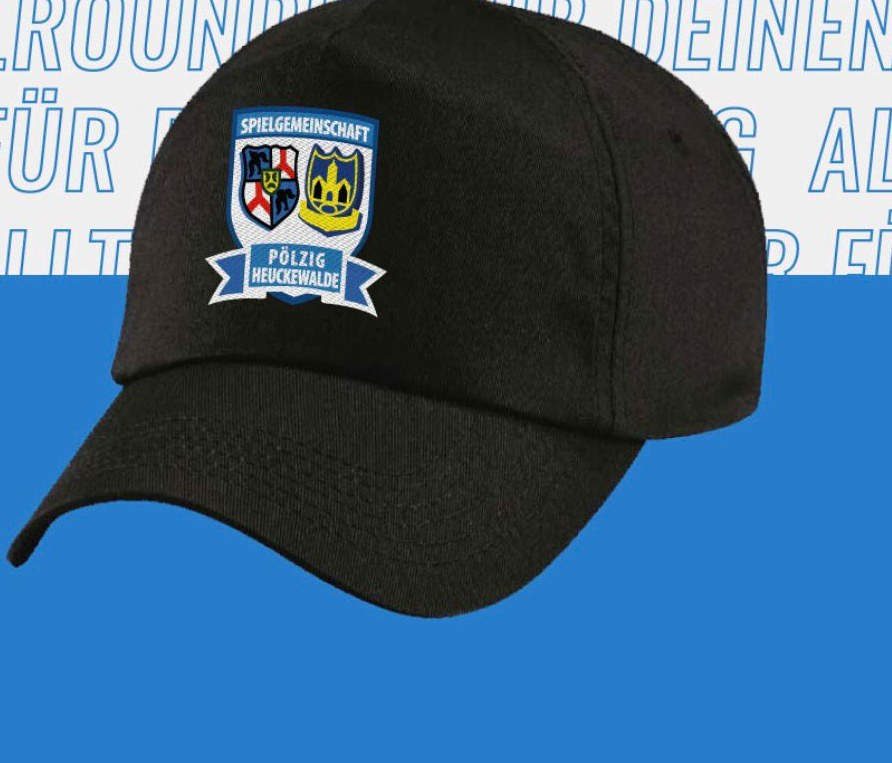
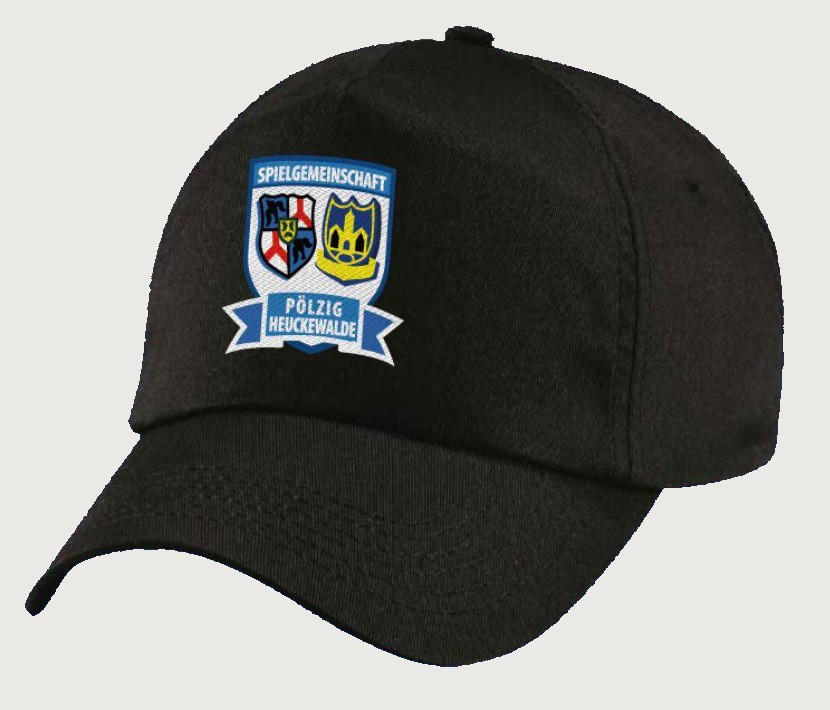
Fanshop-Bilder ohne Textoverlay, Kategorie-Beschriftungen, Abteilungslayout überarbeitet
- Damen-, Herren-, Kinder- und Cap-Foto neu zugeschnitten (Cap per Flood-Fill freigestellt), keine Werbetexte/Badges mehr sichtbar
- Sichtbare Beschriftungen "Damen", "Herren", "Kinder", "Accessoires" auf den Fanshop-Bildern ergänzt
- Sammeltasse-Foto ebenfalls ohne eingebrannten Text zugeschnitten
- Volleyball-, Gymnastik- und Tanzen-Seite umstrukturiert: Beschreibungstext steht jetzt neben dem Foto, Trainingszeiten/-ort in einem eigenen, farblich abgesetzten Container darunter

diff --git a/abteilungen/tanzen.html b/abteilungen/tanzen.html
@@ -75,19 +75,19 @@
           <img src="../images/site/tanzen-gruppe.jpeg" alt="Tanzgruppe des TSV 1861 Pölzig in der Sporthalle" loading="lazy" style="width:100%;height:100%;object-fit:cover">
         </div>
         <div>
-          <h2>Training</h2>
-          <p><strong>Wann:</strong> Donnerstag, 18:30–20:30 Uhr, Aula Pölzig</p>
-          <p><strong>Abteilungsleiter:</strong> Frank Schaller</p>
+          <h2>Gemeinsam tanzen – gemeinsam Freude an Bewegung erleben!</h2>
+          <p>Unsere Tanzabteilung richtet sich an Frauen und Männer jeden Alters – denn für das Tanzen ist man bekanntlich nie zu jung oder zu alt!</p>
+          <p>Bei uns dreht sich alles um die Freude an Musik, Bewegung und dem gemeinsamen Tanzen. Von klassischen Standardtänzen über Walzer bis hin zum beliebten Discofox ist für jeden Geschmack etwas dabei. Ganz egal, ob bereits Tanzerfahrung vorhanden ist oder die ersten Schritte auf dem Parkett gemacht werden sollen.</p>
+          <p>Auch für besondere Momente sind wir der richtige Ansprechpartner: Wir bieten Tanzkurse für Hochzeitspaare, Jubiläen und andere besondere Anlässe an und helfen dabei, sich sicher und mit Freude auf der Tanzfläche zu bewegen.</p>
+          <p>Neben dem Tanzen selbst stehen bei uns vor allem Geselligkeit, Gemeinschaft und der gemeinsame Spaß im Mittelpunkt.</p>
+          <p><strong>Tänze:</strong> Standardtänze · Walzer · Discofox</p>
         </div>
       </div>
 
-      <div class="prose" style="margin-top:var(--space-8);max-width:70ch">
-        <h2>Gemeinsam tanzen – gemeinsam Freude an Bewegung erleben!</h2>
-        <p>Unsere Tanzabteilung richtet sich an Frauen und Männer jeden Alters – denn für das Tanzen ist man bekanntlich nie zu jung oder zu alt!</p>
-        <p>Bei uns dreht sich alles um die Freude an Musik, Bewegung und dem gemeinsamen Tanzen. Von klassischen Standardtänzen über Walzer bis hin zum beliebten Discofox ist für jeden Geschmack etwas dabei. Ganz egal, ob bereits Tanzerfahrung vorhanden ist oder die ersten Schritte auf dem Parkett gemacht werden sollen.</p>
-        <p>Auch für besondere Momente sind wir der richtige Ansprechpartner: Wir bieten Tanzkurse für Hochzeitspaare, Jubiläen und andere besondere Anlässe an und helfen dabei, sich sicher und mit Freude auf der Tanzfläche zu bewegen.</p>
-        <p>Neben dem Tanzen selbst stehen bei uns vor allem Geselligkeit, Gemeinschaft und der gemeinsame Spaß im Mittelpunkt.</p>
-        <p><strong>Tänze:</strong> Standardtänze · Walzer · Discofox</p>
+      <div class="training-info">
+        <h3>Training</h3>
+        <p><strong>Wann:</strong> Donnerstag, 18:30–20:30 Uhr, Aula Pölzig</p>
+        <p><strong>Abteilungsleiter:</strong> Frank Schaller</p>
       </div>
     </section>
   </main>

diff --git a/abteilungen/volleyball.html b/abteilungen/volleyball.html
@@ -75,18 +75,18 @@
           <img src="../images/site/volleyball-team.jpeg" alt="Volleyball-Mannschaft des TSV 1861 Pölzig in blauen Trikots in der Sporthalle" loading="lazy" style="width:100%;height:100%;object-fit:cover;object-position:center 30%">
         </div>
         <div>
-          <h2>Training</h2>
-          <p><strong>Wann:</strong> Mittwoch, 19:30–21:30 Uhr, Halle Pölzig</p>
-          <p><strong>Abteilungsleiter:</strong> Enrico Schüler</p>
+          <h2>Gemeinsam am Netz – seit über 20 Jahren in Pölzig!</h2>
+          <p>Volleyball hat in unserem Verein eine lange Tradition. Seit mittlerweile rund 20 Jahren wird in Pölzig mit Begeisterung Volleyball gespielt – und das über alle Altersklassen hinweg.</p>
+          <p>Von Jugendlichen bis hin zu Erwachsenen kommen bei uns Spielerinnen und Spieler zusammen, die die Freude am Volleyball und am gemeinsamen Sport verbindet. Dabei stehen Teamgeist, Bewegung und natürlich der Spaß am Spiel im Mittelpunkt.</p>
+          <p>Neben dem regelmäßigen Training nimmt unsere Volleyballabteilung auch an Turnieren sowie festen Spiel- und Wettkampfterminen teil. Egal ob mit Erfahrung oder als Neueinsteiger – bei uns ist jeder willkommen, der Lust auf Volleyball und ein tolles Miteinander hat!</p>
+          <p><strong>Altersklassen:</strong> Jugend bis Erwachsene<br><strong>Tradition:</strong> Seit rund 20 Jahren Volleyball in Pölzig</p>
         </div>
       </div>
 
-      <div class="prose" style="margin-top:var(--space-8);max-width:70ch">
-        <h2>Gemeinsam am Netz – seit über 20 Jahren in Pölzig!</h2>
-        <p>Volleyball hat in unserem Verein eine lange Tradition. Seit mittlerweile rund 20 Jahren wird in Pölzig mit Begeisterung Volleyball gespielt – und das über alle Altersklassen hinweg.</p>
-        <p>Von Jugendlichen bis hin zu Erwachsenen kommen bei uns Spielerinnen und Spieler zusammen, die die Freude am Volleyball und am gemeinsamen Sport verbindet. Dabei stehen Teamgeist, Bewegung und natürlich der Spaß am Spiel im Mittelpunkt.</p>
-        <p>Neben dem regelmäßigen Training nimmt unsere Volleyballabteilung auch an Turnieren sowie festen Spiel- und Wettkampfterminen teil. Egal ob mit Erfahrung oder als Neueinsteiger – bei uns ist jeder willkommen, der Lust auf Volleyball und ein tolles Miteinander hat!</p>
-        <p><strong>Altersklassen:</strong> Jugend bis Erwachsene<br><strong>Tradition:</strong> Seit rund 20 Jahren Volleyball in Pölzig</p>
+      <div class="training-info">
+        <h3>Training</h3>
+        <p><strong>Wann:</strong> Mittwoch, 19:30–21:30 Uhr, Halle Pölzig</p>
+        <p><strong>Abteilungsleiter:</strong> Enrico Schüler</p>
       </div>
     </section>
   </main>

diff --git a/abteilungen/gymnastik.html b/abteilungen/gymnastik.html
@@ -75,18 +75,18 @@
           <img src="../images/site/turnen-umzug.jpeg" alt="Abteilung Gymnastik des TSV 1861 Pölzig bei einem Auftritt beim Dorfumzug" loading="lazy" style="width:100%;height:100%;object-fit:cover">
         </div>
         <div>
-          <h2>Training</h2>
-          <p><strong>Wann:</strong> Dienstag &amp; Donnerstag, 19:30–20:30 Uhr, Halle Pölzig</p>
-          <p><strong>Abteilungsleiterin:</strong> Yvonne Göpel</p>
+          <h2>Gemeinsam bewegen – gemeinsam fit bleiben!</h2>
+          <p>Unsere Gymnastikabteilung besteht aus rund 25 Frauen verschiedener Altersklassen, die eines verbindet: die Freude an Bewegung und gemeinsamer Aktivität.</p>
+          <p>Mit abwechslungsreichen Übungen aus den Bereichen Gymnastik, Gesundheitssport, Beweglichkeit und allgemeine Fitness sorgen wir dafür, dass der ganze Körper in Schwung bleibt. Dabei stehen nicht Höchstleistungen im Vordergrund, sondern Gesundheit, Wohlbefinden und der Spaß an der Bewegung.</p>
+          <p>Natürlich kommt auch die Gemeinschaft nicht zu kurz – denn zusammen macht Sport einfach mehr Spaß!</p>
+          <p><strong>Mitglieder:</strong> ca. 25 Frauen<br><strong>Angebote:</strong> Gymnastik · Gesundheitssport · Fitness · Beweglichkeit<br><strong>Für wen:</strong> Frauen verschiedener Altersklassen</p>
         </div>
       </div>
 
-      <div class="prose" style="margin-top:var(--space-8);max-width:70ch">
-        <h2>Gemeinsam bewegen – gemeinsam fit bleiben!</h2>
-        <p>Unsere Gymnastikabteilung besteht aus rund 25 Frauen verschiedener Altersklassen, die eines verbindet: die Freude an Bewegung und gemeinsamer Aktivität.</p>
-        <p>Mit abwechslungsreichen Übungen aus den Bereichen Gymnastik, Gesundheitssport, Beweglichkeit und allgemeine Fitness sorgen wir dafür, dass der ganze Körper in Schwung bleibt. Dabei stehen nicht Höchstleistungen im Vordergrund, sondern Gesundheit, Wohlbefinden und der Spaß an der Bewegung.</p>
-        <p>Natürlich kommt auch die Gemeinschaft nicht zu kurz – denn zusammen macht Sport einfach mehr Spaß!</p>
-        <p><strong>Mitglieder:</strong> ca. 25 Frauen<br><strong>Angebote:</strong> Gymnastik · Gesundheitssport · Fitness · Beweglichkeit<br><strong>Für wen:</strong> Frauen verschiedener Altersklassen</p>
+      <div class="training-info">
+        <h3>Training</h3>
+        <p><strong>Wann:</strong> Dienstag &amp; Donnerstag, 19:30–20:30 Uhr, Halle Pölzig</p>
+        <p><strong>Abteilungsleiterin:</strong> Yvonne Göpel</p>
       </div>
     </section>
   </main>

diff --git a/fanshop.html b/fanshop.html
@@ -91,15 +91,19 @@
       <div class="shop-gallery">
         <a class="shop-photo" href="https://sg-poelzig-heuckewalde.fan12.de" target="_blank" rel="noopener">
           <img src="images/site/fanshop/shop-sg-shirt-damen.jpg" alt="SG-Shirt für Damen" loading="lazy">
+          <span class="shop-photo-label">Damen</span>
         </a>
         <a class="shop-photo" href="https://sg-poelzig-heuckewalde.fan12.de" target="_blank" rel="noopener">
           <img src="images/site/fanshop/shop-sg-shirt-herren.jpg" alt="SG-Shirt für Herren" loading="lazy">
+          <span class="shop-photo-label">Herren</span>
         </a>
         <a class="shop-photo" href="https://sg-poelzig-heuckewalde.fan12.de" target="_blank" rel="noopener">
           <img src="images/site/fanshop/shop-sg-shirt-kids.jpg" alt="SG-Shirt für Kinder" loading="lazy">
+          <span class="shop-photo-label">Kinder</span>
         </a>
         <a class="shop-photo" href="https://sg-poelzig-heuckewalde.fan12.de" target="_blank" rel="noopener">
           <img src="images/site/fanshop/shop-sg-cap.jpg" alt="SG-Cap" loading="lazy">
+          <span class="shop-photo-label">Accessoires</span>
         </a>
         <a class="shop-photo" href="https://sg-poelzig-heuckewalde.fan12.de" target="_blank" rel="noopener">
           <img src="images/site/fanshop/shop-sg-tasse.jpg" alt="SG-Sammeltasse 2026" loading="lazy">

diff --git a/css/style.css b/css/style.css
@@ -1314,6 +1314,39 @@ a.sponsor-card:hover {
   object-fit: contain;
 }
 
+.shop-photo-label {
+  position: absolute;
+  left: 0;
+  right: 0;
+  bottom: 0;
+  padding: var(--space-3) var(--space-4);
+  background: linear-gradient(to top, rgba(0, 0, 0, 0.78), rgba(0, 0, 0, 0));
+  color: #fff;
+  font-weight: 700;
+  font-size: var(--text-sm);
+}
+
+/* Abteilungsseiten: Trainingszeiten in eigenem, farblich abgesetztem Container */
+.training-info {
+  margin-top: var(--space-6);
+  padding: var(--space-6) var(--space-7);
+  background: var(--color-pulse-tint);
+  border-radius: var(--radius-card);
+}
+
+.training-info h3 {
+  margin: 0 0 var(--space-3);
+  color: var(--color-pulse-ink);
+}
+
+.training-info p {
+  margin: 0 0 4px;
+}
+
+.training-info p:last-child {
+  margin-bottom: 0;
+}
+
 /* ---------------------------------------------------------------
    9. Formulare
 --------------------------------------------------------------- */
